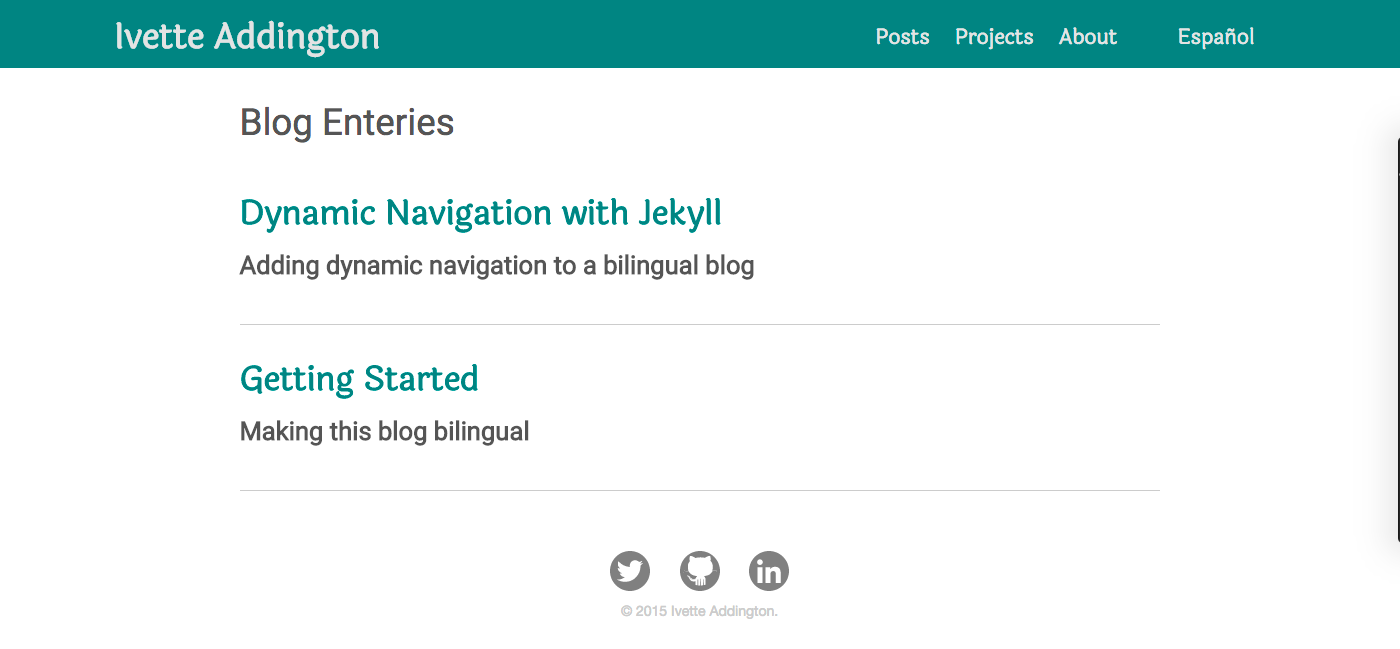
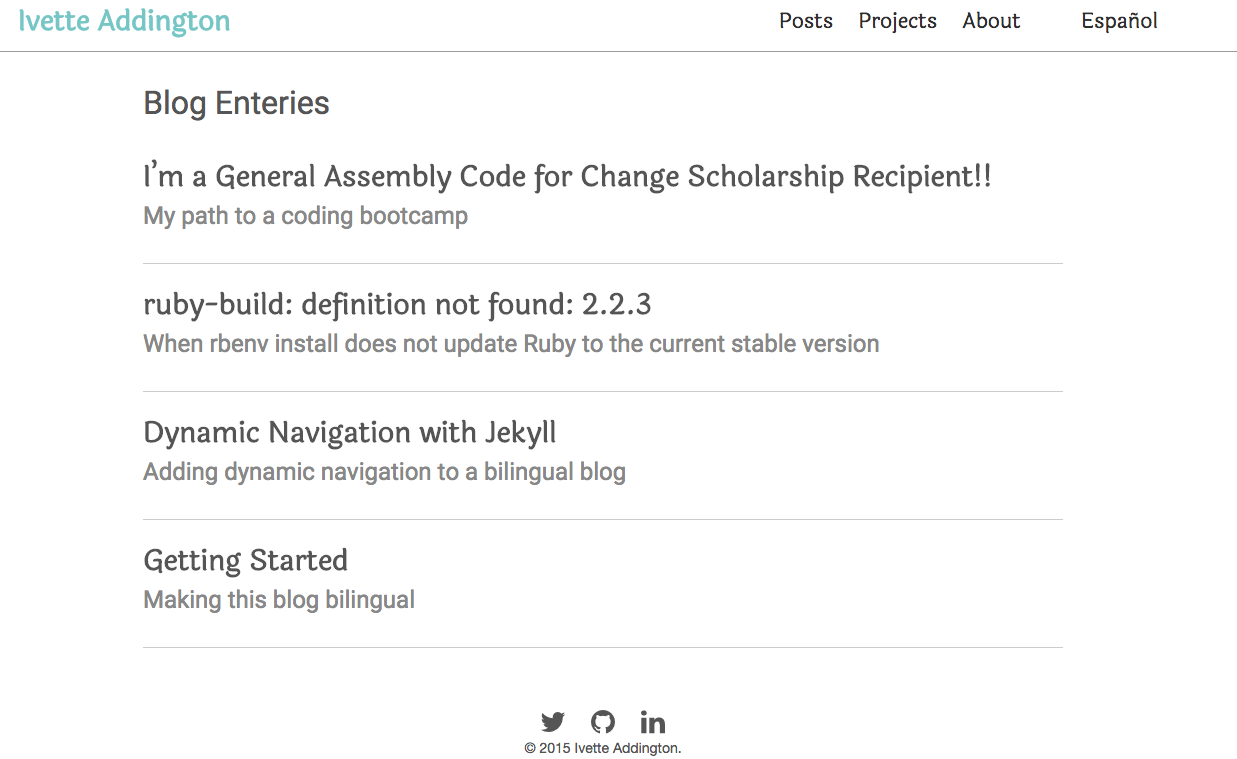
swap project photos to updated versions

diff --git a/_site/about/index.html b/_site/about/index.html
@@ -130,9 +130,11 @@
     <div class="container main">
         <div class="page-content col-md-10 col-md-offset-1">
             <p id="page_title">About</p> 
-            <p>Hi! I&rsquo;m Ivette. I created this site to document my journey as a web developer. You will find that all the posts are written in both English and Spanish, with a in-depth look at the projects I&rsquo;m working on. </p>
+            <p>I&rsquo;m Ivette. I web developer in the midst of relocating to Durham, North Carolina. My path to web development has not been straight and narrow. I&rsquo;ve had some great opportunities along the way, but my passion for technology was awakened when working for a ed-tech startup, I realized I was working alongside the people who made things happen, the development team. I was jealous, but mostly really upset with myself for changing my original major, computer science as a freshman. </p>
 
-<p>If you have any questions, feel free to reach out! </p>
+<p>Not going to lie, I may have dwelled in that for a little while, but then I decided to do something about it. I was going to learn to code. Along my journey, I was incredibly fortunate to be one of the recipients of the Code for Change Scholarships at General Assembly. It wasn&rsquo;t easy, but I forced out of my comfort zone, and have learned so much for it. After graduating, I got involved with Girls Who Code and had the privilage to teach a class of 14-year olds in Harlem. </p>
+
+<p>As I continue to grow as a developer, I wanted to share my experiences with other newbies in both English and Spanish. I realize I have a lot to learn, and I&rsquo;m super excited to keep on jumping in as I transition fron NYC to NC! </p>
 
         </div>
     </div>

diff --git a/_site/index/index.html b/_site/index/index.html
@@ -135,7 +135,7 @@
          
         <a href="/post4/" class="en">
             <li class="lang">
-                <p class="title">General Assembly Opportunity Fund Fellow</p>
+                <p class="title">I&rsquo;m a General Assembly Code for Change Scholarship Recipient!!</p>
                 <p class="line">My path to a coding bootcamp</p>
                 <div class="desc-list"></div>
             </li>
